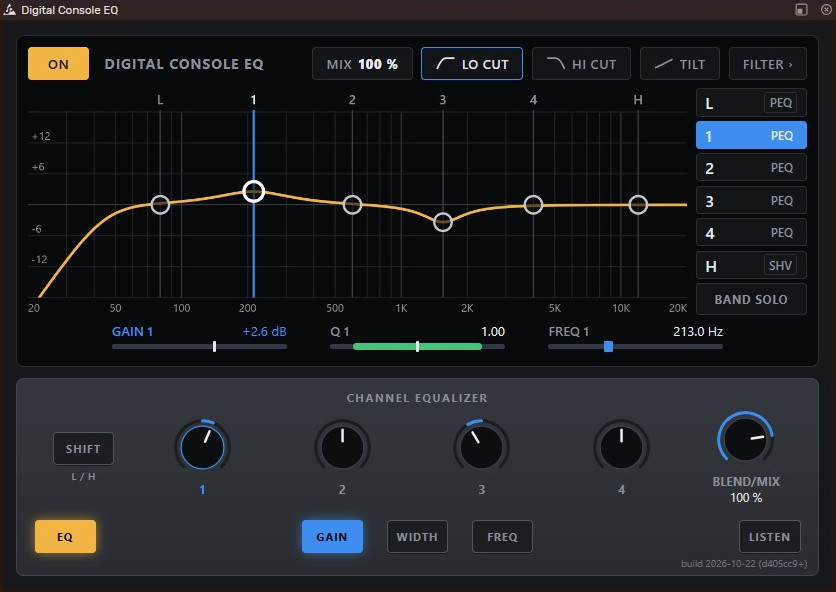
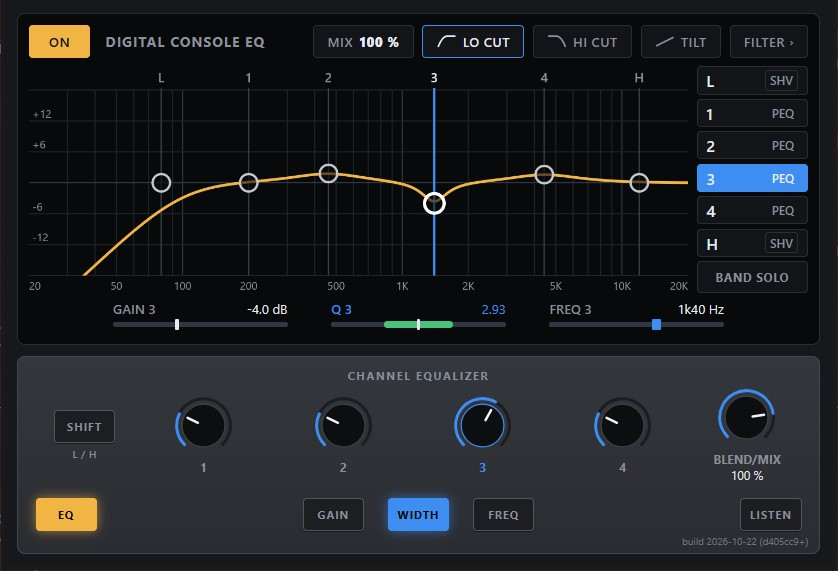
site: live mixing texts, new screenshot

diff --git a/web/fi/index.html b/web/fi/index.html
@@ -12,7 +12,7 @@
 <main>
 	<a class="lang" href="../" hreflang="en" lang="en">In English</a>
 	<h1>WebCLAP Plugins</h1>
-	<p class="lead">Ilmaisia plugareita, jotka toimivat selaimessa, esimerkiksi <a href="https://opendaw.studio">openDAW</a>:ssa</p>
+	<p class="lead">Ilmaisia plugareita live-miksauksen harjoitteluun ja studiotyöhön. Toimivat selaimessa, esimerkiksi <a href="https://opendaw.studio">openDAW</a>:ssa</p>
 
 	<h2>Plugin-efektit</h2>
 
@@ -27,8 +27,8 @@
 
 	<section class="plugin" style="--stripe: #f2b544">
 		<h3>Digital Console EQ</h3>
-		<p>Kuusikaistainen kanavataajuuskorjain Behringer WING -digitaalimikserin tyyliin. Samassa ikkunassa ovat sekä näytön että kanavaosan säätimet: matalien ja korkeiden taajuuksien kaistat, joissa voi valita hylly- tai kellokorjaimen, neljä parametrista kaistaa, LC-, HC- ja tilt-suotimet, kaistan soolo (band solo) sekä mix.</p>
-		<img class="screenshot" src="../digital-console-eq-ui.jpg" width="640" height="453" alt="Digital Console EQ -ikkuna: taajuuskäyrä kuudella kaistamerkillä ja kaistalista, alla ohjauspinta, jossa neljä säädintä sekä GAIN-, WIDTH- ja FREQ-painikkeet.">
+		<p>Tehty live-miksauksen harjoitteluun: kuusikaistainen taajuuskorjain, jonka käyttöliittymä on suunniteltu muistuttamaan Behringer WING -digitaalimikserin oletus-EQ:ta. Samassa ikkunassa ovat sekä näytön että kanavaosan säätimet: matalien ja korkeiden taajuuksien kaistat, joissa voi valita hylly- tai kellokorjaimen, neljä parametrista kaistaa, LC-, HC- ja tilt-suotimet, kaistan soolotus sekä mix.</p>
+		<img class="screenshot" src="../digital-console-eq-ui.jpg" width="640" height="436" alt="Digital Console EQ -ikkuna: taajuuskäyrä kuudella kaistamerkillä ja kaistalista, alla ohjauspinta, jossa neljä säädintä sekä GAIN-, WIDTH- ja FREQ-painikkeet.">
 		<div class="actions">
 			<a class="button primary" href="../download/digital-console-eq.wclap.tar.gz" download>Lataa</a>
 		</div>

diff --git a/web/index.html b/web/index.html
@@ -12,7 +12,7 @@
 <main>
 	<a class="lang" href="fi/" hreflang="fi" lang="fi">suomeksi</a>
 	<h1>WebCLAP Plugins</h1>
-	<p class="lead">Free audio plugins that run in browser-based DAWs such as <a href="https://opendaw.studio">openDAW</a></p>
+	<p class="lead">Free audio plugins for live mixing practice and studio work, running in browser-based DAWs such as <a href="https://opendaw.studio">openDAW</a></p>
 
 	<h2>Plugins</h2>
 
@@ -27,8 +27,8 @@
 
 	<section class="plugin" style="--stripe: #f2b544">
 		<h3>Digital Console EQ</h3>
-		<p>A six-band channel EQ laid out like the one on the Behringer WING digital mixing console, with the screen and the channel strip controls in the same window: low and high bands that switch between shelf and bell, four parametric bands, low-cut, high-cut and tilt filters, band solo and mix.</p>
-		<img class="screenshot" src="digital-console-eq-ui.jpg" width="640" height="453" alt="The Digital Console EQ window: an EQ graph with six band markers and a band list above a control surface with four encoders and GAIN, WIDTH and FREQ buttons.">
+		<p>Made for practicing live mixing: a six-band channel EQ with a user interface designed to resemble the default EQ of the Behringer WING digital mixing console. The screen and the channel strip controls are in the same window: low and high bands that switch between shelf and bell, four parametric bands, low-cut, high-cut and tilt filters, band solo and mix.</p>
+		<img class="screenshot" src="digital-console-eq-ui.jpg" width="640" height="436" alt="The Digital Console EQ window: an EQ graph with six band markers and a band list above a control surface with four encoders and GAIN, WIDTH and FREQ buttons.">
 		<div class="actions">
 			<a class="button primary" href="download/digital-console-eq.wclap.tar.gz" download>Download</a>
 		</div>
